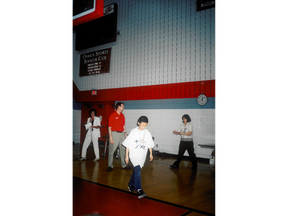
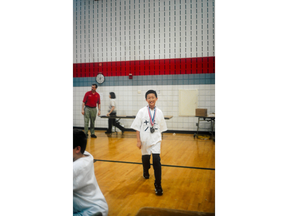
cropping wide pictures anchored on center instead of right side

diff --git a/pages/story/update.py b/pages/story/update.py
@@ -77,7 +77,9 @@ def main():
             w, h = im.size
             if w/h > 4/3:
                 hadjust = h % 3
-                new_im = im.crop((w-4/3*(h-hadjust), hadjust, w, h))
+                neww = 4/3*(h-hadjust)
+                wadjust = (w-neww) % 2
+                new_im = im.crop(((w-(neww-wadjust))/2, hadjust, w-(w-(neww-wadjust))/2, h))
                 new_im.save(full)
             if w/h < 4/3:
                 hadjust = h % 3
